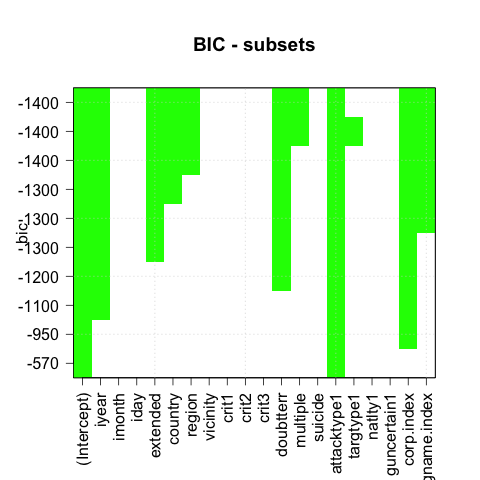
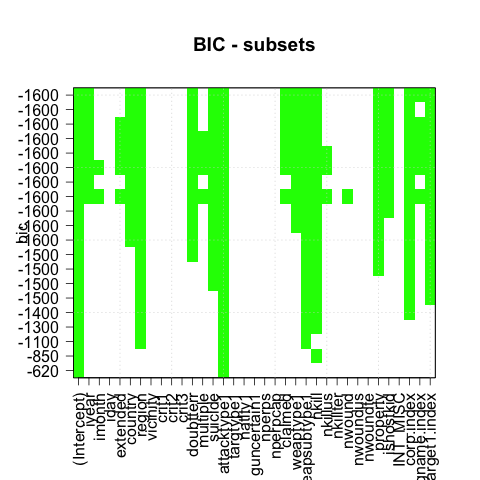
Revised DataCleaning to clean full dataset. Revised png files to reflect full dataset and using 20 features. Adding details to README file to track progress made.

Changed region(s): [[0.0312, 0.1562, 0.9375, 1.0]]

diff --git a/README.md b/README.md
@@ -1,2 +1,52 @@
 # MSDFinalProject
 Modeling Social Data - Final Project
+
+Steps taken to clean data so far:
+1) Look only at top 6 countries of interest: Iraq, Pakistan, Afghanistan, India, Philippines and United States - These make up ~65% of entire dataset
+
+2) Remove columns where there are more than half the rows with NA
+
+3) Remove columns with "_txt" since these are coded numerically
+
+4) Remove other columns with detailed location information or characters:
+"eventid", "provstate", "city","latitude","longitude","specificity",
+"location","summary","targsubtype1","motive","weapdetail","propcomment","scite1","scite2","dbsource"
+
+5) Of the columns that include international information, remove those where more than half the rows are missing or incomplete:
+"INT_LOG","INT_IDEO","INT_ANY"
+
+6) Assign numeric values to gname (Perpetrator Group Name), corp1 (corporate entity/government agency that was targeted) and target1
+(Specific person, building, installation, targeted) and remove the columns with corresponding character information.
+
+7) Rearrange columns so that the label "Success" is at far right
+
+Perform subset selection using regsubsets from leaps package:
+1) using 20 features:
+
+Looking at the features selection based on highest Adjusted R squared:
+
+ coef(reg.model, max.adjR)
+
+  (Intercept)         iyear        imonth      extended       country        region     doubtterr      multiple
+ 1.453921e+01 -6.797289e-03 -1.275971e-03 -4.361199e-02 -2.124055e-04  1.353064e-02  3.851092e-02  1.458877e-02
+      suicide   attacktype1       claimed     weaptype1  weapsubtype1         nkill       nkillus        nwound
+-5.733472e-02  5.950978e-02  1.409924e-02 -2.568232e-02 -3.589514e-03  5.944115e-03  2.243717e-02 -3.727316e-04
+     property     ishostkid    corp.index   gname.index target1.index
+-3.172962e-03 -3.209989e-02 -8.390188e-06  1.552925e-04 -2.156886e-06
+
+AIC returns the same features, however BIC returns these:
+
+ (Intercept)         iyear       country        region     doubtterr       suicide   attacktype1       claimed
+ 1.329242e+01 -6.182874e-03 -2.139940e-04  1.319593e-02  3.966771e-02 -5.740017e-02  5.792416e-02  1.467604e-02
+    weaptype1  weapsubtype1         nkill      property     ishostkid    corp.index   gname.index target1.index
+-2.376420e-02 -3.555021e-03  5.294363e-03 -3.172898e-03 -4.586415e-02 -8.741322e-06  1.649393e-04 -2.230543e-06
+
+Looks like imonth, extended, multiple, nkillus, nwound are all not returned.
+
+[![bic_subsets](http://nandinishah.github.io/MSDFinalProject/bic_subsets.png)](http://nandinishah.github.io/MSDFinalProject/bic_subsets.png)
+[![cp_subsets](http://nandinishah.github.io/MSDFinalProject/cp_subsets.png)](http://nandinishah.github.io/MSDFinalProject/cp_subsets.png)
+[![adjr2_subsets](http://nandinishah.github.io/MSDFinalProject/adjr2_subsets.png)](http://nandinishah.github.io/MSDFinalProject/adjr2_subsets.png)
+
+
+
+
